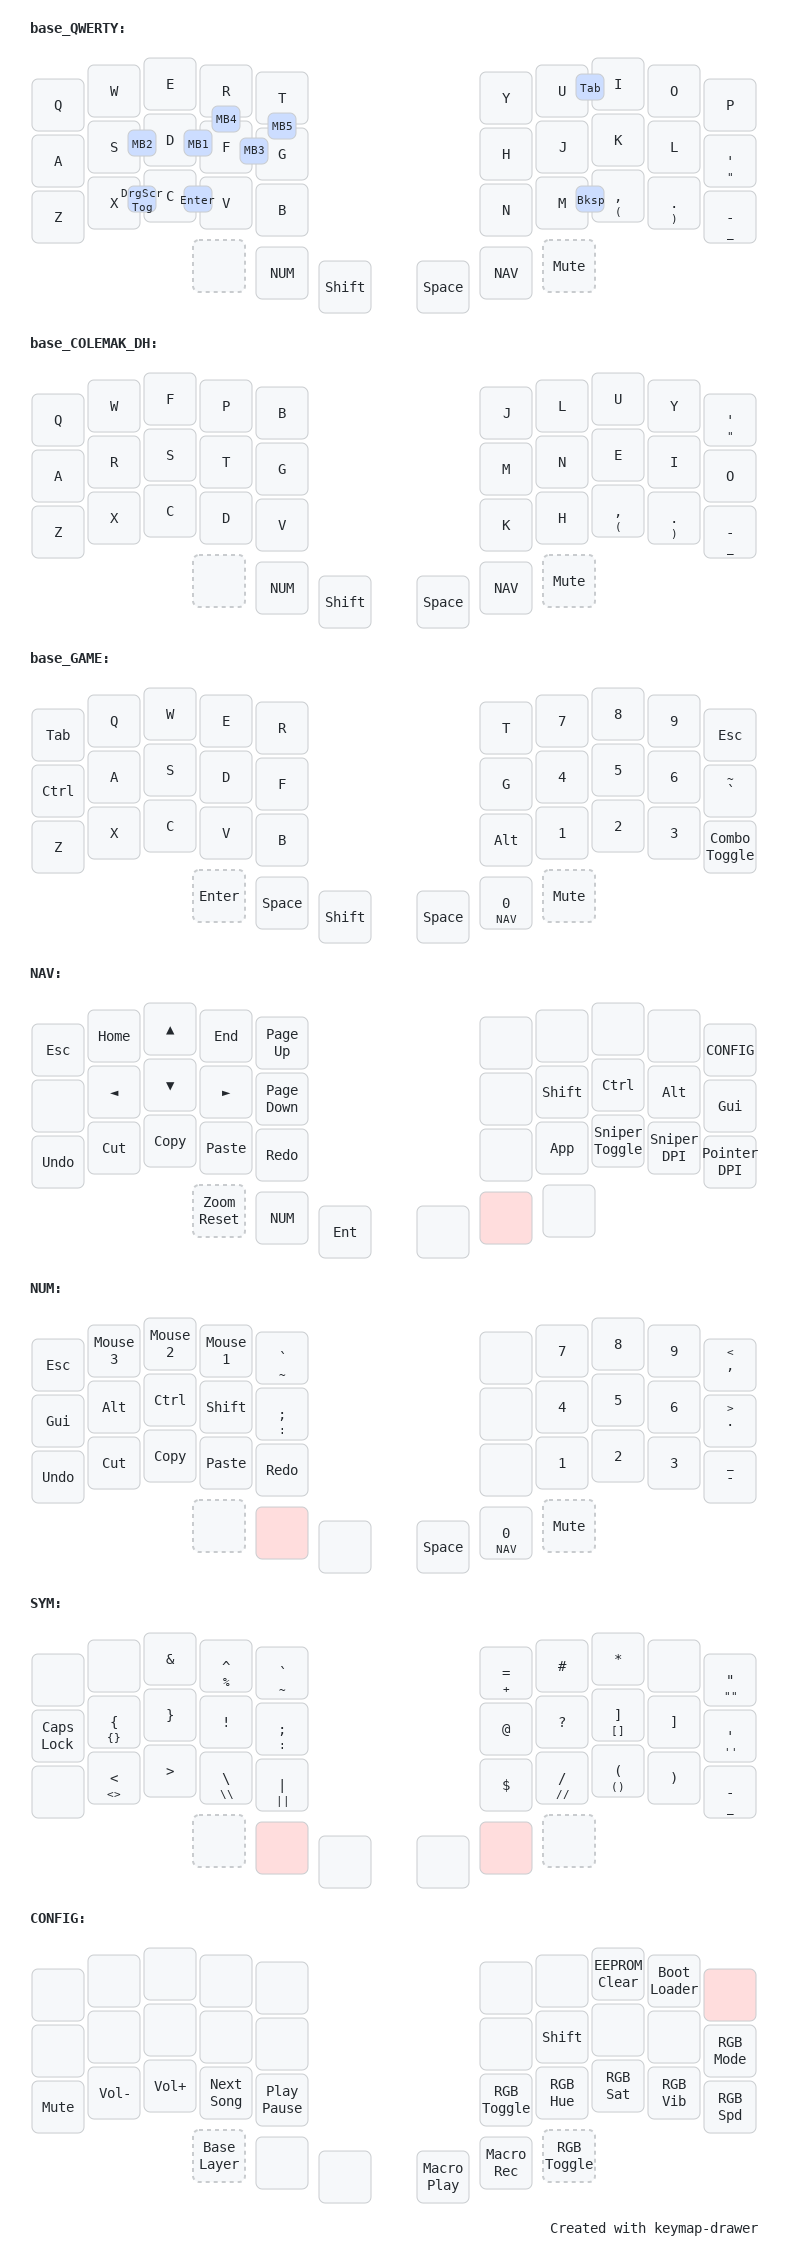
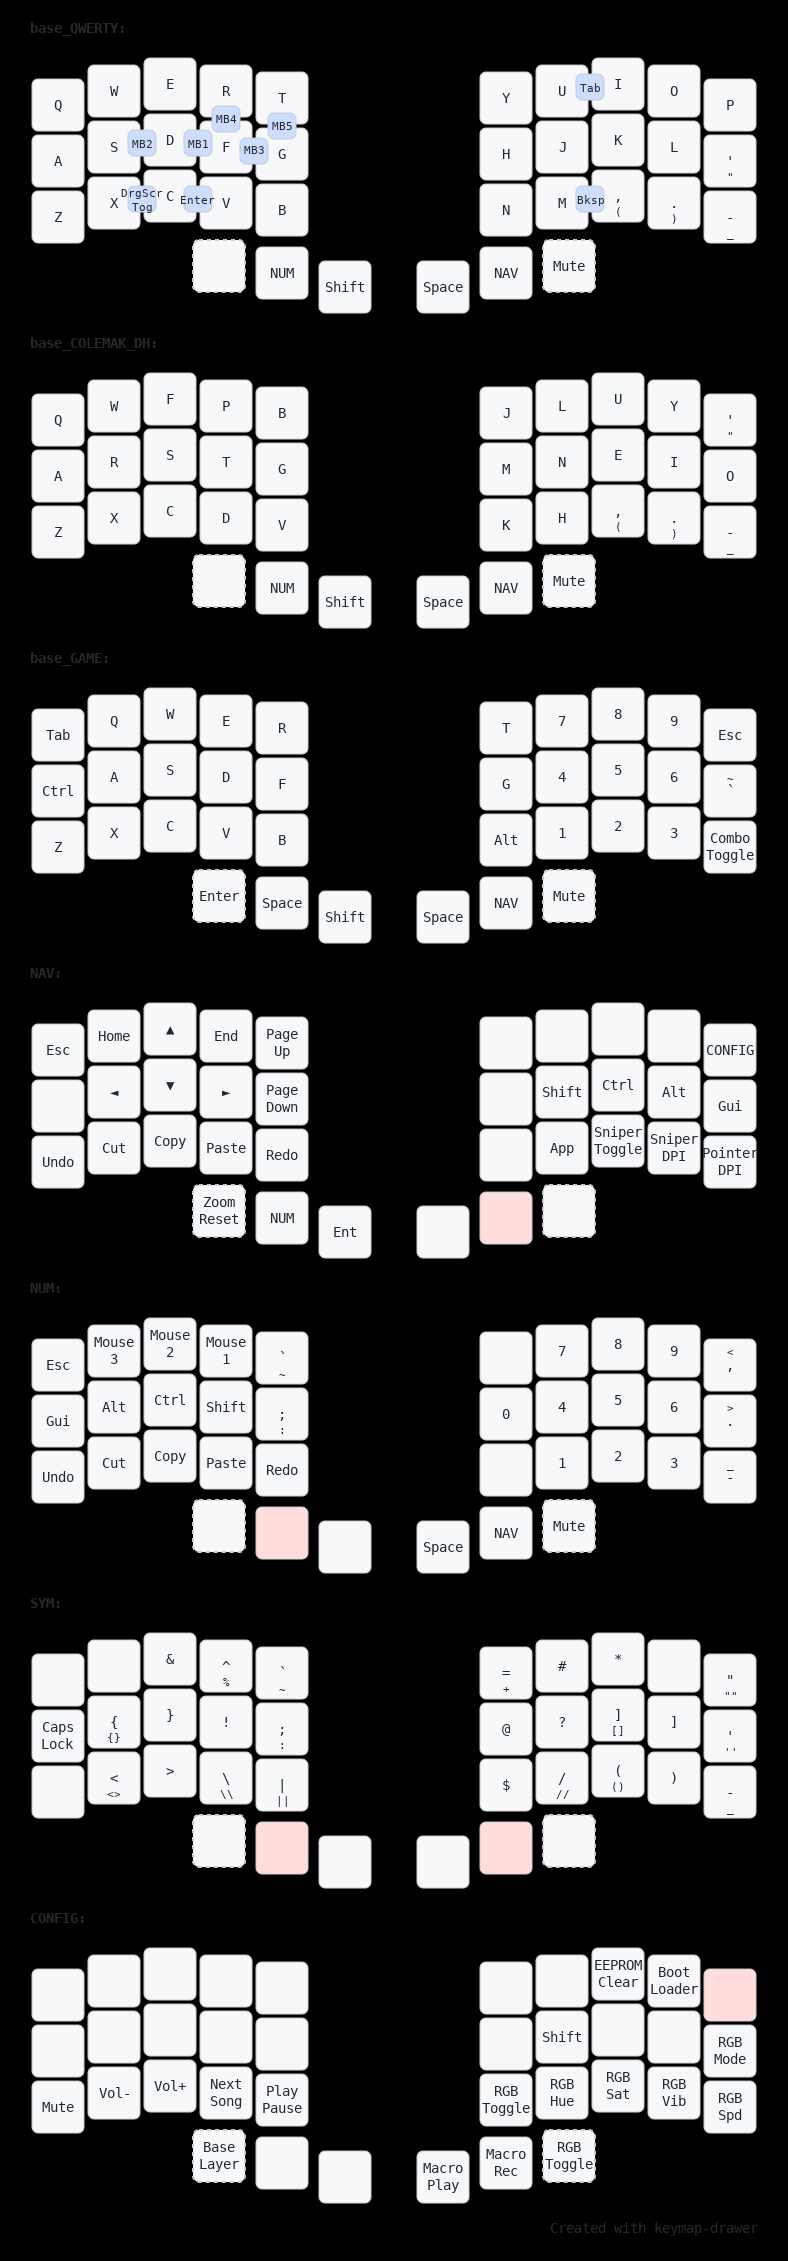
had to remove that limiter - upon reading documentation I don't think I can do COMBO_ONLY_FROM_LAYER and COMBO_SHOULD_TRIGGER at the same time unless its for base layer - something to do with needing those keys to be defined on the other layers - like if I wanted tab to work on NAV, i need to add U 

diff --git a/users/t4corun/features/combo.c b/users/t4corun/features/combo.c
@@ -29,10 +29,6 @@ bool combo_should_trigger(uint16_t combo_index, combo_t *combo, uint16_t keycode
 
   switch (combo_index) {
 
-    case KEY_ENT:
-    case KEY_TAB:
-      if ( get_highest_layer(layer_state | default_layer_state) == _SYMBOL ) return false;
-
     case MOUSE_BUTTON1:
     case MOUSE_BUTTON2:
     case MOUSE_BUTTON3:

diff --git a/README.md b/README.md
@@ -88,8 +88,8 @@ Enables additional keys to be mapped by pressing multiple keys simultaneously. P
 | `R` + `F`     | `Mouse Button 4`     | Back                                              |
 | `T` + `G`     | `Mouse Button 5`     | Forward                                           |
 | `T` + `G`     | `Drag Scroll Toggle` |                                                   |
-| `C` + `V`     | `Enter`              | Disabled on `SYMBOL` layer                        |
-| `U` + `I`     | `Tab`                | Disabled on `SYMBOL` layer                        |
+| `C` + `V`     | `Enter`              |                                                   |
+| `U` + `I`     | `Tab`                |                                                   |
 | `M` + `Comma` | `Backspace`          |                                                   |
 
 ### Key Overrides
